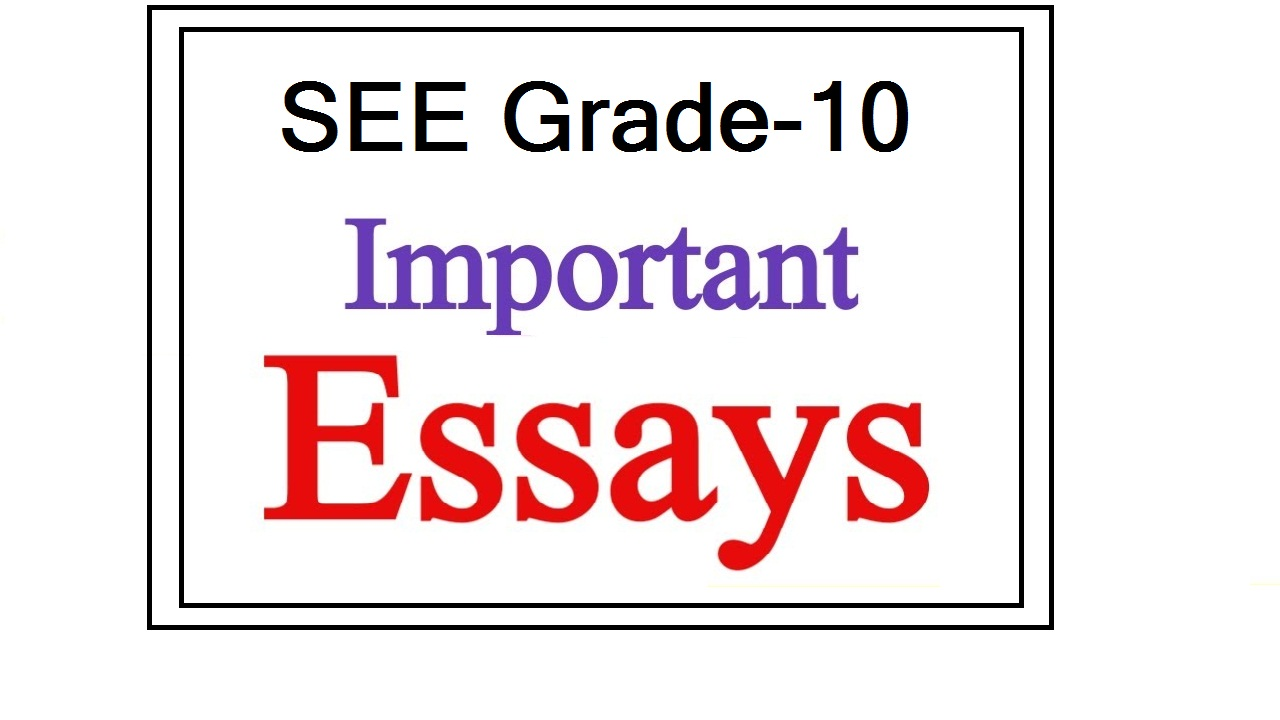
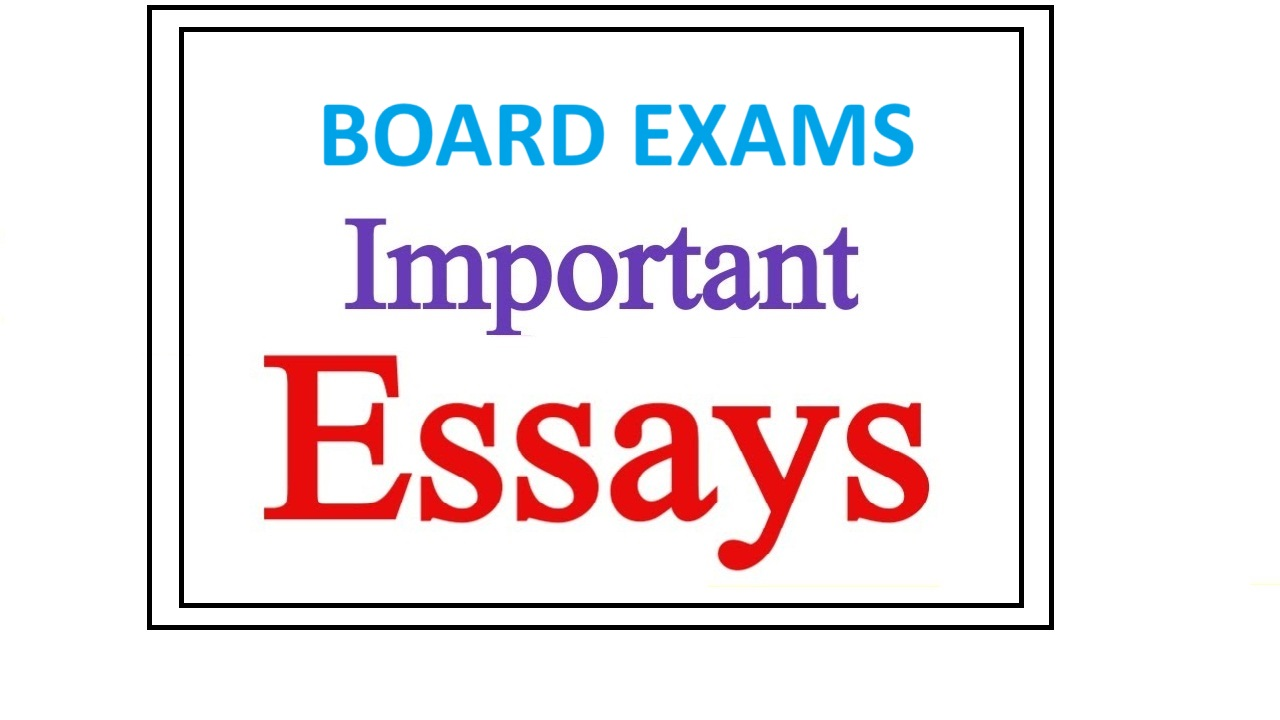
Add files via upload

Changed region(s): [[0.2188, 0.0917, 0.7188, 0.2444]]

diff --git a/SEE-Important-Essay/Grade10-SEE-Important-Essays.html b/SEE-Important-Essay/Grade10-SEE-Important-Essays.html
@@ -36,7 +36,7 @@
   gtag('config', 'G-3MXL4ERV5V');
 </script>
 
-    <title>Important Essays For SEE (Grade-10) Board Exams </title>
+    <title>Important Essays For All Board Exams </title>
 
 </head>
 
@@ -85,7 +85,7 @@
     <div class="main-container">
 
         <div class="main-content">
-            <h1>Important Essays For SEE (Grade-10) Board Exams</h1>
+            <h1>Important Essays For Board Exams</h1>
             <br>
             <a href="/SEE-2079-Question-Papers/Grade10-SEE-Question-Papers.html" target="_blank">
                 <img src="pic3A.jpg" alt="SEE important essays " class="imgA">
@@ -102,8 +102,8 @@ data-ad-format="fluid" data-ad-client="ca-pub-1578967526186709" data-ad-slot="78
             <br><br>
             <hr><br>
             <p>In this post, you will be able to figure out some of the most important essays that have high possibilities 
-                to come in Grade 10 Pre Sendup, Sendup, Pre SEE and  Board Exams of English subject.
-                 We've researched previous years and decided to publish this post to help SEE appearing students to 
+                to come in Grade 10, 12 Pre Sendup, Sendup, Pre SEE's and Other Classes Board Exams of English subject.
+                 We've researched previous years and decided to publish this post to help exam appearing students to 
                  prepare their essays which cover a total of 8-10 marks in the following exams. 
                 
             </p><br><br><br>

diff --git a/index.html b/index.html
@@ -468,6 +468,12 @@
             <h1 class="head5">5. Grade 12 Questions Practice</h1>
             <div class="container5">
                 <div class="item">
+                    <a href="/NEB-Grade12-2080/Grade12-Model-Questions-With-Solutions.html"><img
+                            src="/NEB-Grade12-2080/pic2A.JPG">
+                        <h4>Grade 12 Exam Papers 2080</h4>
+                    </a>
+                </div>
+                <div class="item">
                     <a href="/NEB-Result/Class-12-Result-2080.html"><img
                             src="/NEB-Result/Assets/pic3AB.jpg">
                         <h4>NEB Class 12 Result 2080</h4>
